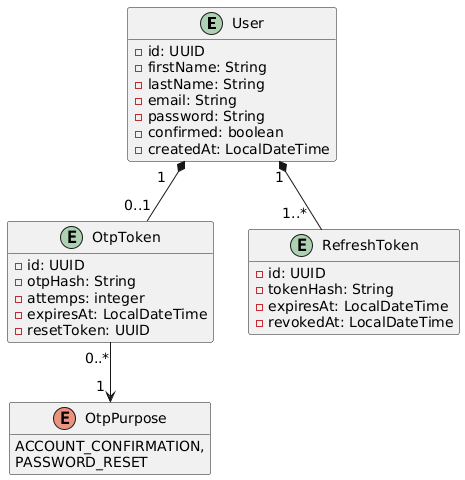
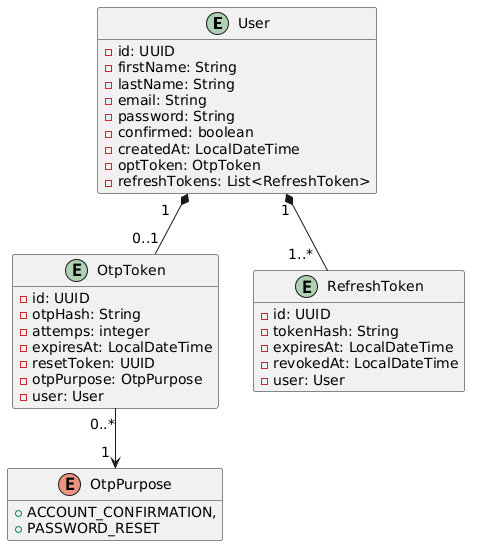
Actualice los diagramas UML de los 3 microservicios

Changed region(s): [[0.0, 0.0, 0.9935, 1.0]]

diff --git a/README.md b/README.md
@@ -96,7 +96,7 @@ Las principales tecnologías, frameworks y librerías utilizadas para el desarro
 | Spring Boot      | Simplifica la configuración, desarrollo y ejecución independiente de cada microservicio.                       |
 | Spring Cloud     | Es el ecosistema de herramientas para implementar funcionalidades relacionadas con arquitecturas distribuidas. |
 
-![](assets/spring-boot-logo.png|470)
+![](assets/spring-boot-logo.png)
 
 ### Persistencia y datos
 
@@ -105,7 +105,7 @@ Las principales tecnologías, frameworks y librerías utilizadas para el desarro
 | Spring Data JPA | Proporciona abstracción para la persistencia y acceso a bases de datos mediante repositorios y consultas JPA.        |
 | PostgreSQL      | Es el sistema de gestión de bases de datos relacional utilizado para almacenar la información de cada microservicio. |
 
-![](assets/postgres-logo.png|470)
+![](assets/postgres-logo.png)
 
 ### Desarrollo web y APIs
 
@@ -116,7 +116,7 @@ Las principales tecnologías, frameworks y librerías utilizadas para el desarro
 | Spring Boot Starter Validation | Gestiona la validación de datos de entrada mediante anotaciones de Bean Validation.                                  |
 | Resend                         | Es un servicio externo de envío de correos electrónicos transaccionales, es utilizado para la activación de cuentas. |
 
-![](assets/swagger-logo.png|470)
+![](assets/swagger-logo.png)
 
 ### Mapeo y generación de código
 
@@ -125,7 +125,7 @@ Las principales tecnologías, frameworks y librerías utilizadas para el desarro
 | MapStruct  | Genera código para realizar conversiones entre entidades, DTOs y otros objetos Java.                        |
 | Lombok     | Reduce código repetitivo mediante anotaciones para generar constructores, getters, setters y otros métodos. |
 
-![](assets/mapstruct-logo.png|470)
+![](assets/mapstruct-logo.png)
 
 ### Seguridad y autenticación
 
@@ -134,7 +134,7 @@ Las principales tecnologías, frameworks y librerías utilizadas para el desarro
 | Spring Security        | Es un framework de Java para la gestión de autenticación, autorización, protección de endpoints y mitigación de vulnerabilidades comunes.     |
 | OAuth2 Resource Server | Protocolo estándar para la autorización delegada y manejo de tokens JWT utilizados para autenticar las solicitudes HTTP entre microservicios. |
 
-![](assets/oauth-2-logo.png|470)
+![](assets/oauth-2-logo.png)
 
 ### Comunicación entre microservicios y resiliencia
 
@@ -145,7 +145,7 @@ Las principales tecnologías, frameworks y librerías utilizadas para el desarro
 | Resilience4j Circuit Breaker | Librería ligera para el aislamiento de fallos en las comunicaciones entre microservicios mediante el patrón Circuit Breaker. |
 | Resilience4j Retry           | Es un módulo de Resilience4j para la gestión de reintentos automáticos ante determinados errores en las comunicaciones.      |
 
-![](assets/resilence4j-logo.png|470)
+![](assets/resilence4j-logo.png)
 
 ### Observabilidad e infraestructura
 
@@ -154,7 +154,7 @@ Las principales tecnologías, frameworks y librerías utilizadas para el desarro
 | Spring Boot Actuator | Es un módulo de Spring Boot que expone métricas operativas de los microservicios y consulta de información operativa, incluyendo estados y eventos de los Circuit Breakers. |
 | Docker               | Es la herramienta para la creación y gestión de contenedores, además de la configuración de la infraestructura necesaria para ejecutar el entorno de desarrollo local.      |
 
-![](assets/docker-logo.png|470)
+![](assets/docker-logo.png)
 
 ## Características principales
 
@@ -616,15 +616,15 @@ El diagrama permite visualizar la estructura del modelo de datos de cada microse
 
 ### Identity
 
-![Diagrama UML del microservicio Identity](assets/diagrama_identity.png|470)
+![](assets/diagrama_identity.png)
 
 ### Project
 
-![Diagrama UML del microservicio Project](assets/diagrama_project.png|470)
+![](assets/diagrama_project.png)
 
 ### Workflow
 
-![Diagrama UML del microservicio Workflow](assets/diagrama_workflow_2.png|470)
+![](assets/diagrama_workflow_2.png)
 
 ## Generación de claves RSA para JWT
 
